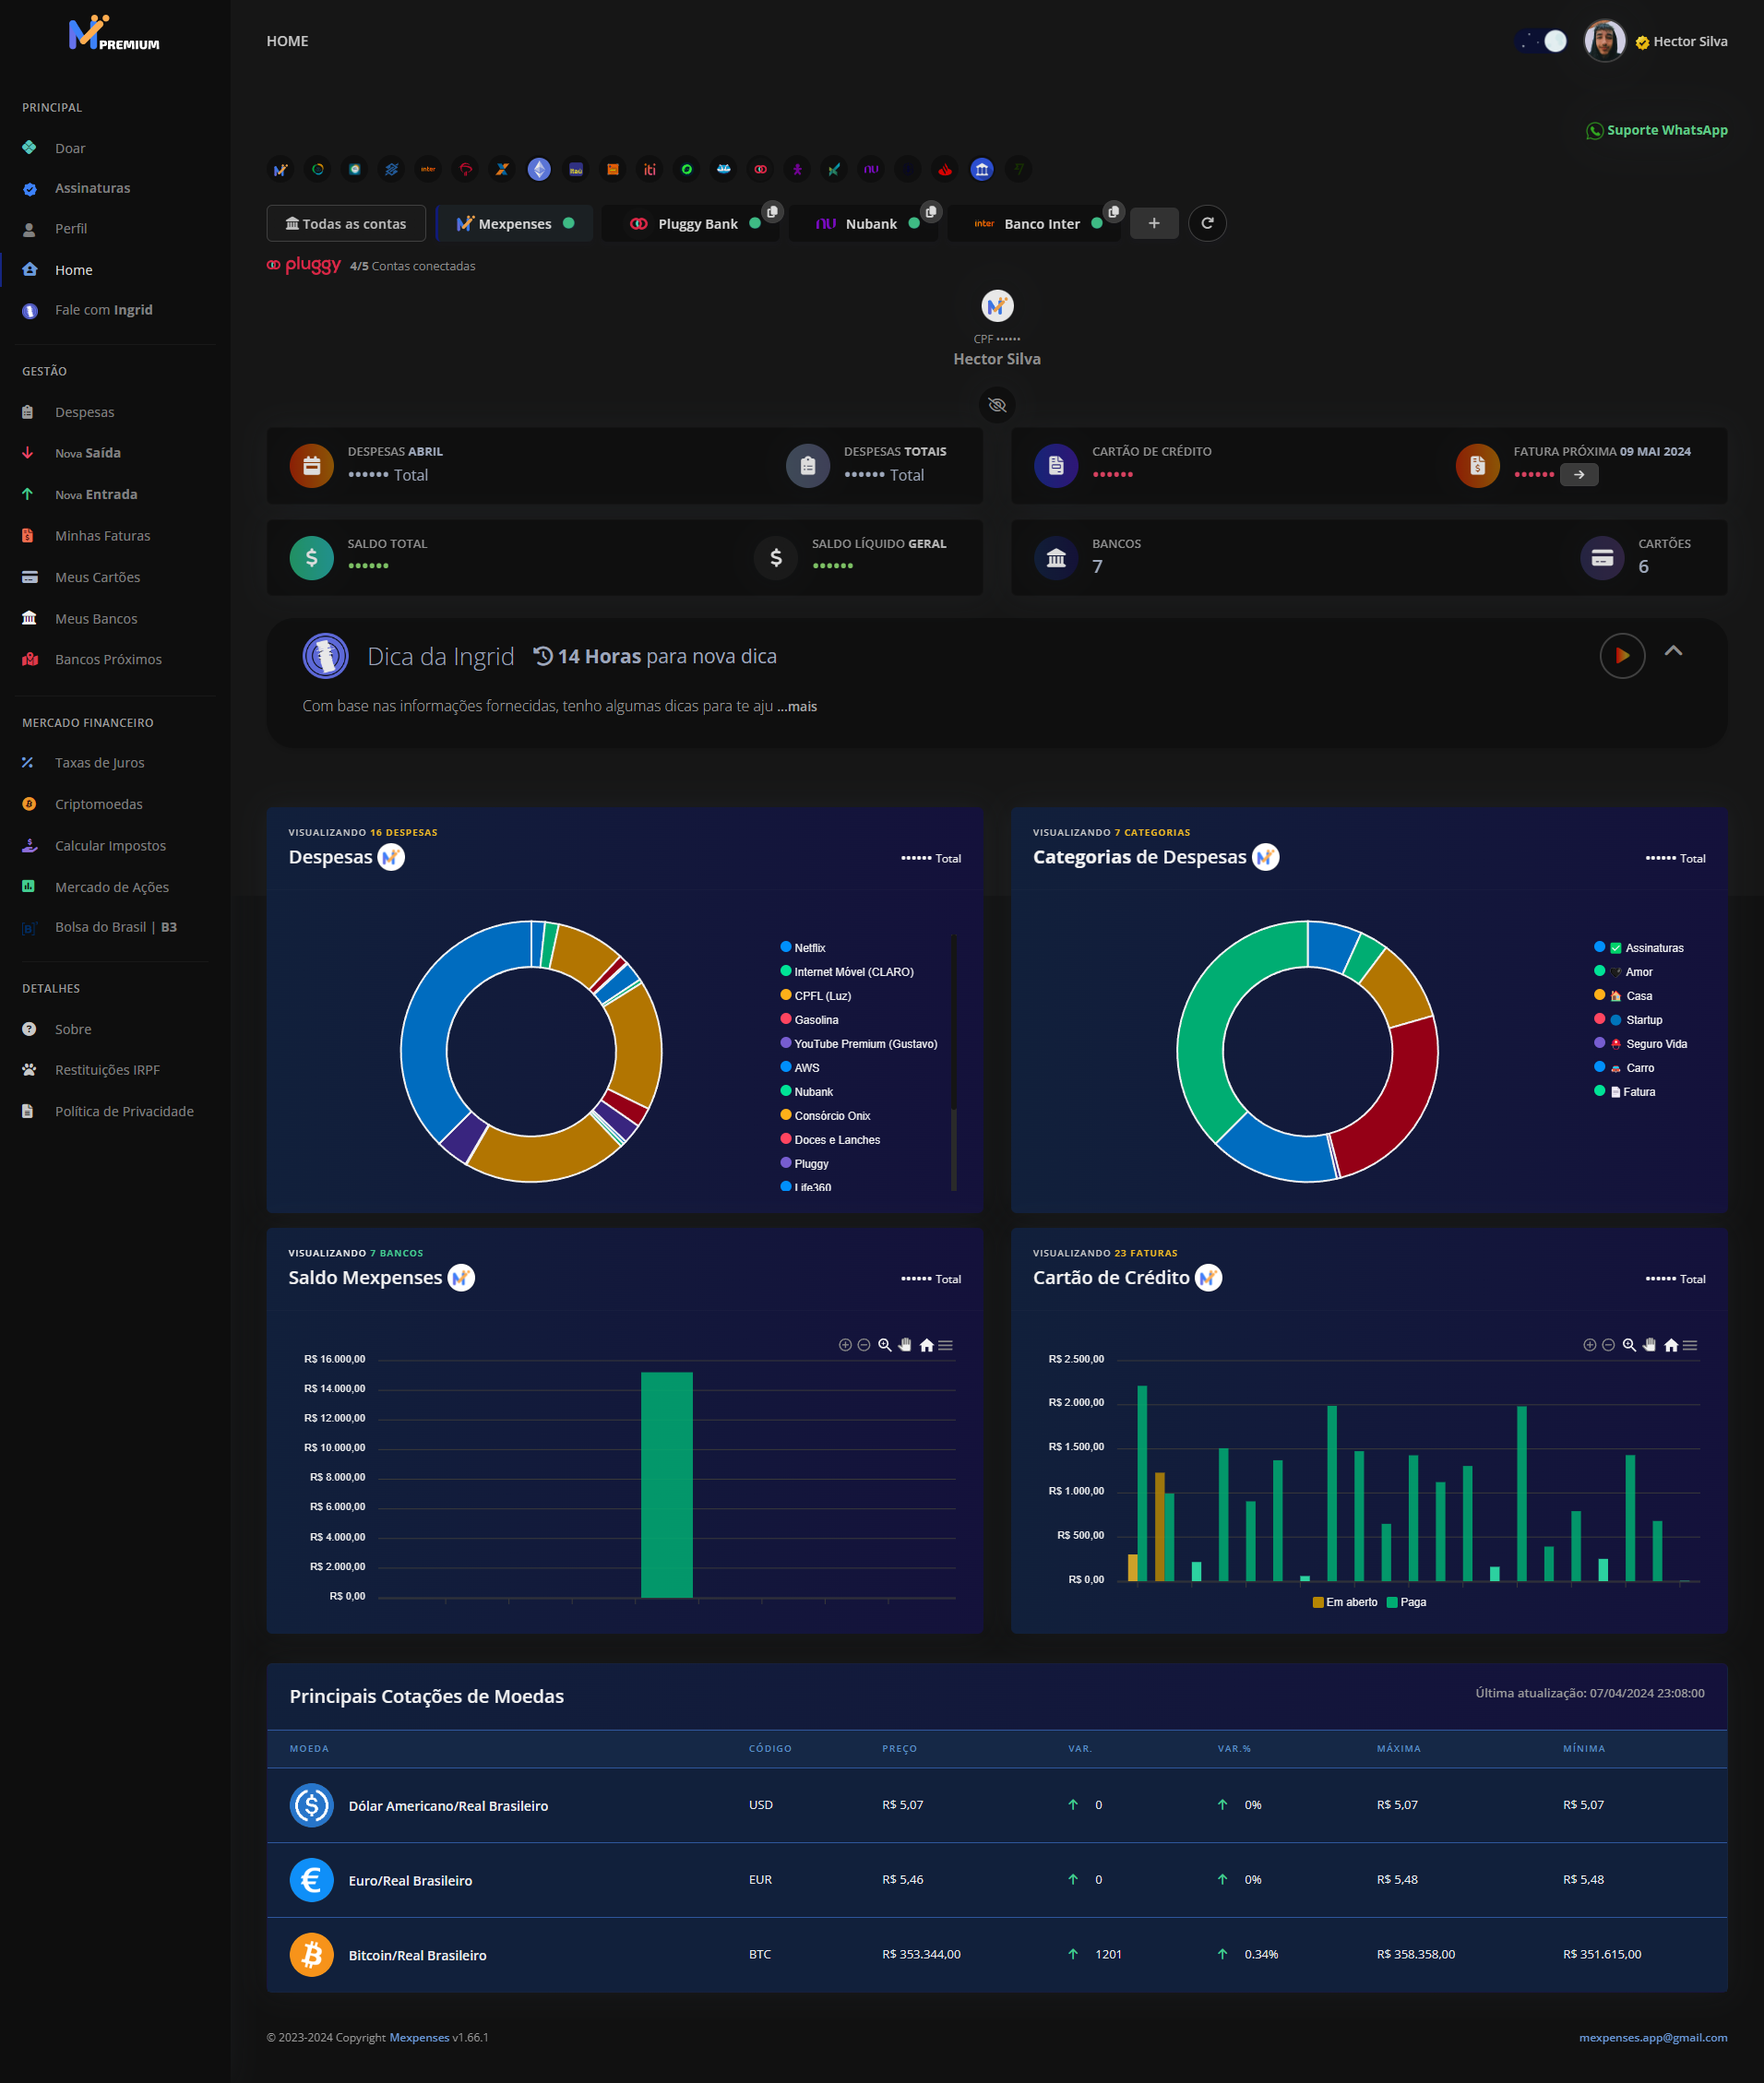
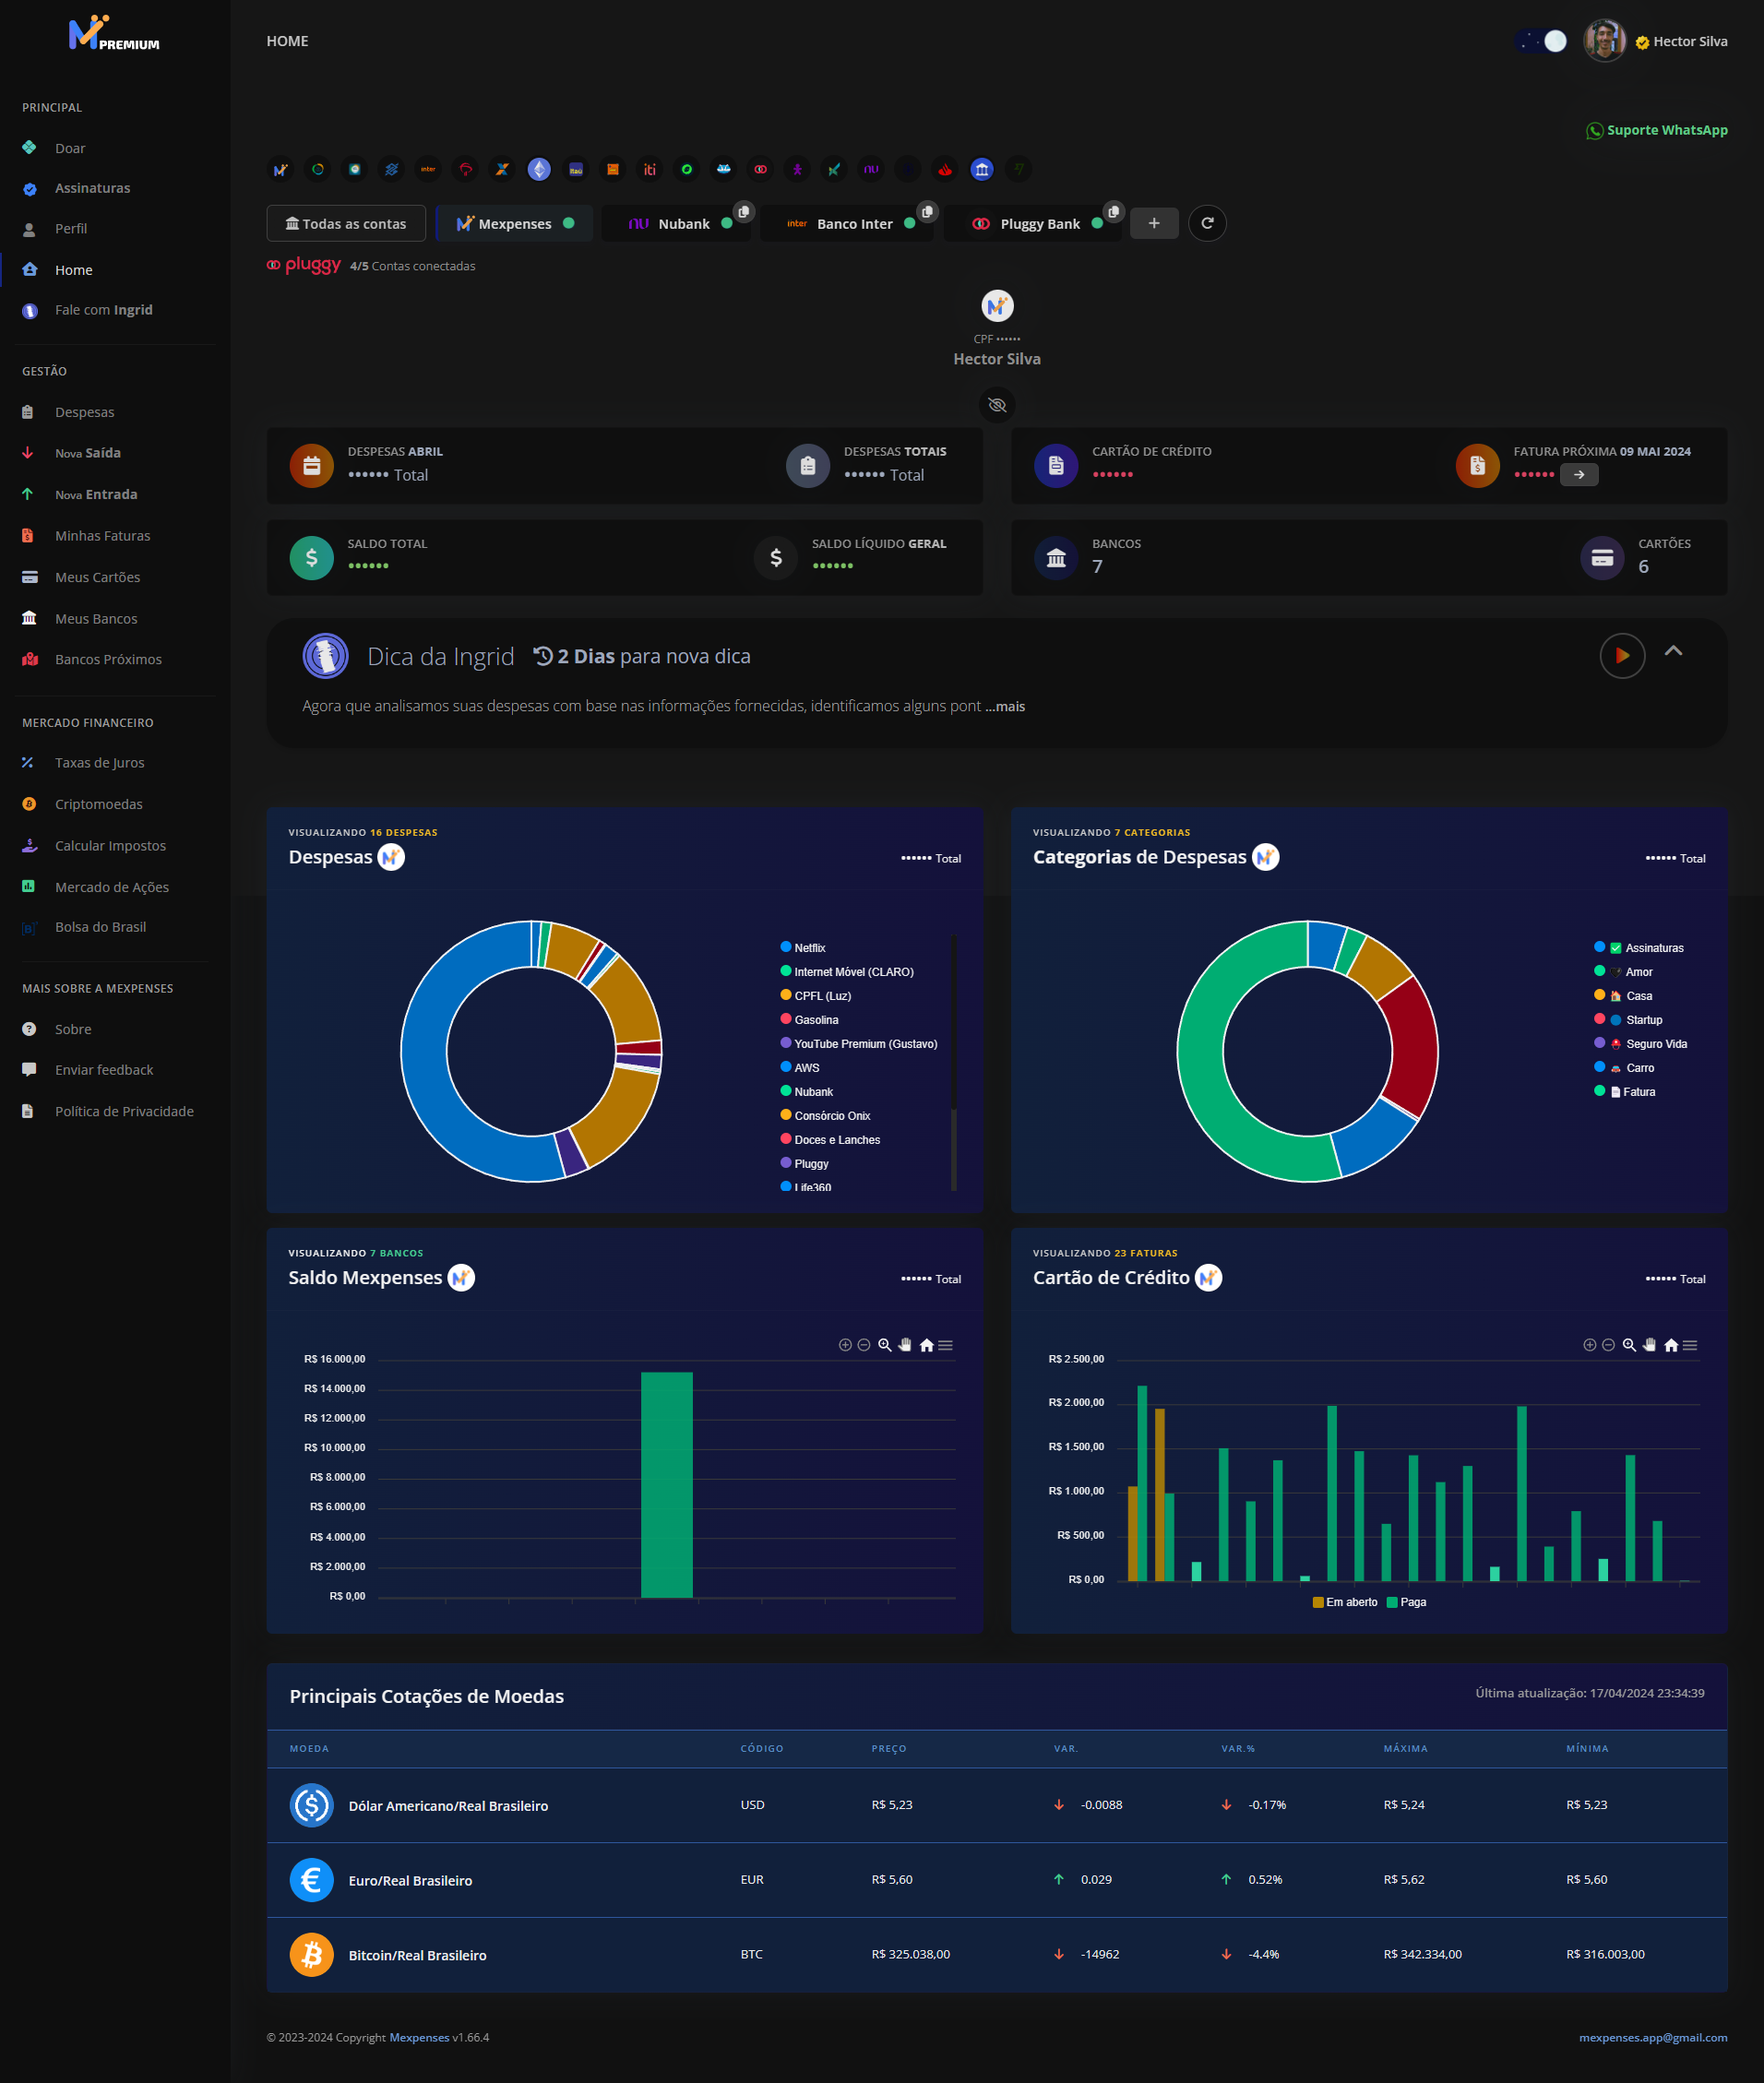
[Deploy: Landing Page] => 🚀 GitHub Pages Mexpenses

diff --git a/components/Subscriptions.js b/components/Subscriptions.js
@@ -339,7 +339,7 @@ export const Subscriptions = () => {
                                 alt="Badge"
                             />
                             <span>
-                                <b>B3 (Bolsa do Brasil) em tempo real:</b> Acompanhe a B3 em tempo real.
+                                <b>B3 (Bolsa do Brasil):</b> Acompanhe a B3 em tempo real.
                             </span>
                         </li>
                         <li className="flex items-center space-x-3 text-sm">
